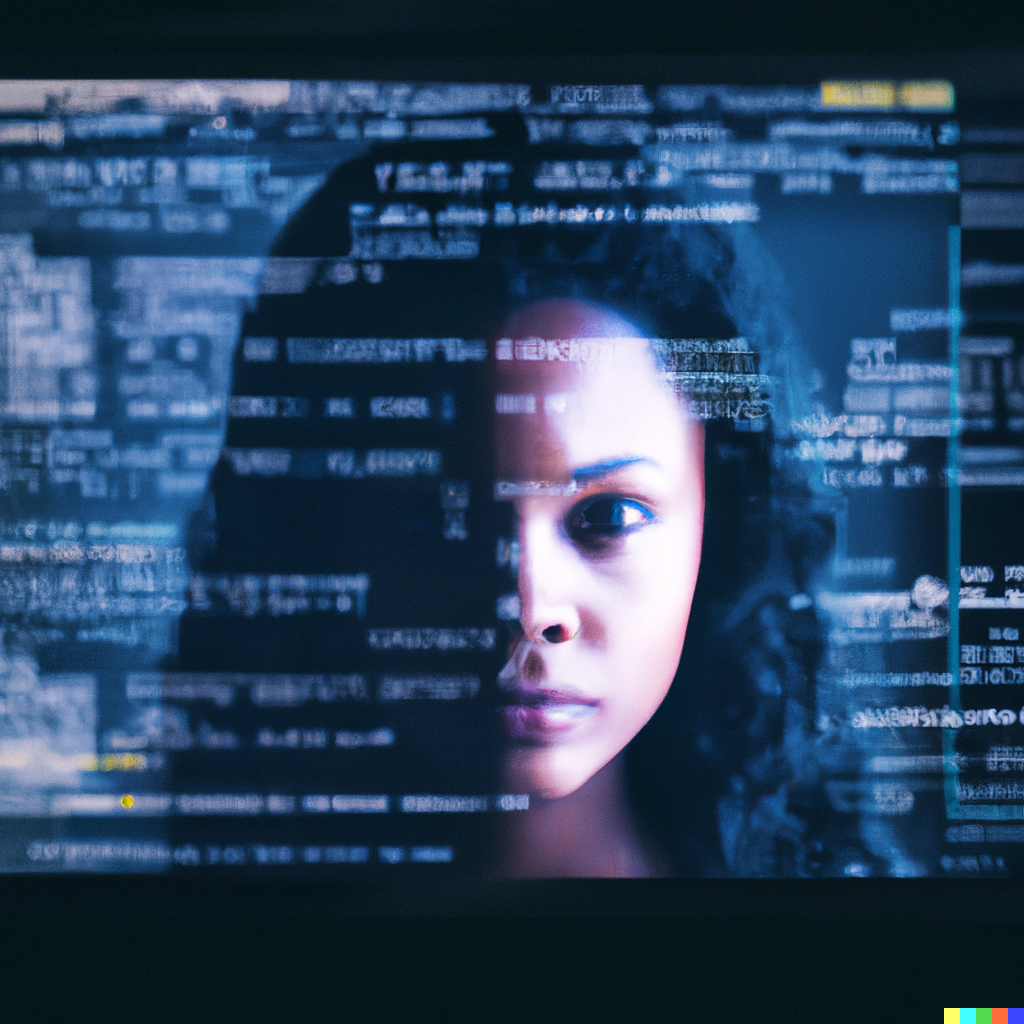
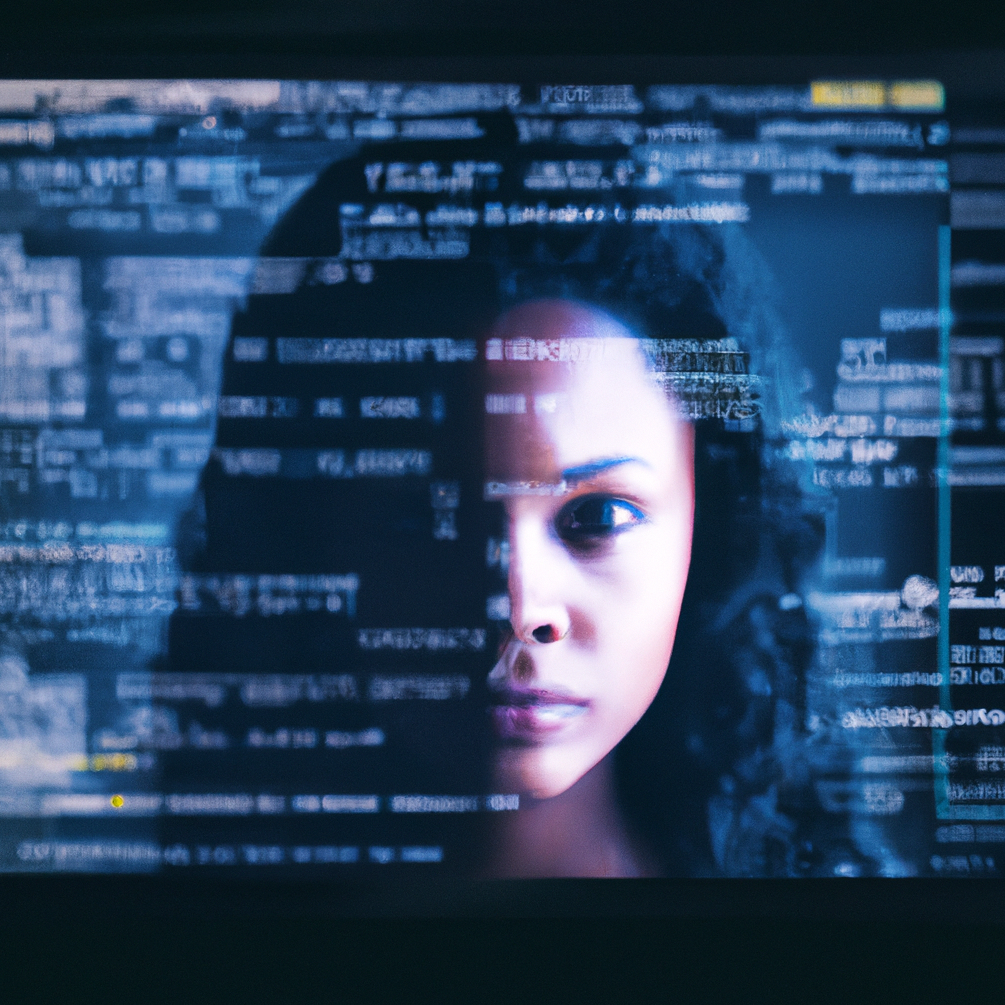
lighten image

diff --git a/src/components/Hero.jsx b/src/components/Hero.jsx
@@ -3,7 +3,7 @@ import Image from 'next/image'
 import { Button } from '@/components/Button'
 import { GridPattern } from '@/components/GridPattern'
 import { StarRating } from '@/components/StarRating'
-import coverImage from '@/images/cover.png'
+import coverImage from '@/images/cover.webp'
 
 function Testimonial() {
   return (
